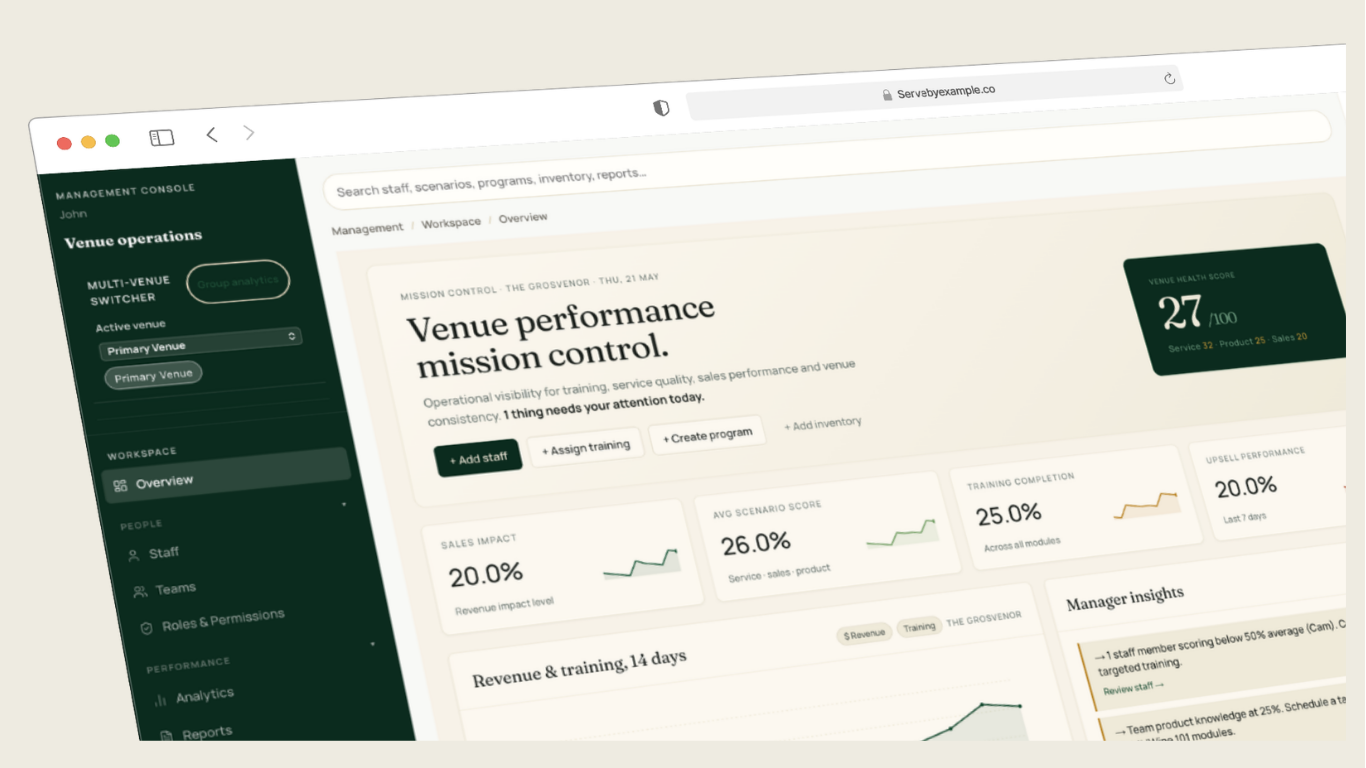
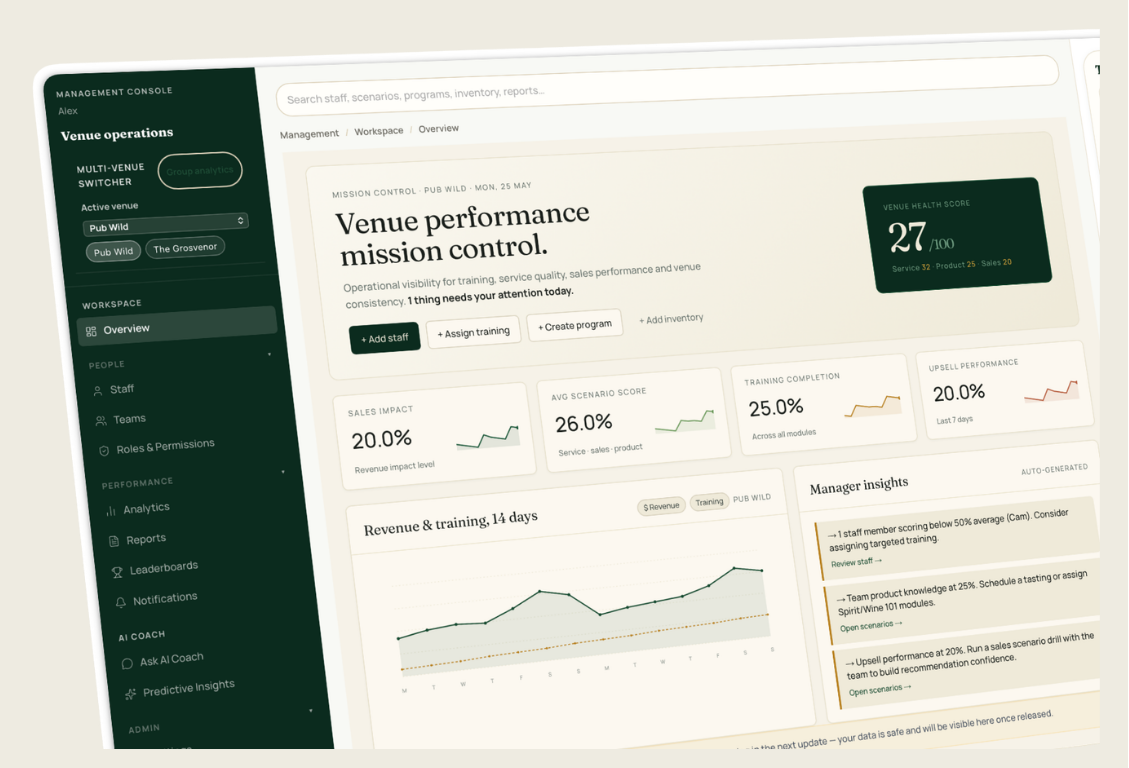
fix: constrain mobile screenshot to 300px and update 3 platform asset images

diff --git a/app/page.tsx b/app/page.tsx
@@ -226,7 +226,7 @@ export default function Home() {
                   alt="Mobile training view — hospitality staff learning on phone"
                   width={700}
                   height={1000}
-                  style={{ width: "100%", height: "auto", display: "block" }}
+                  style={{ width: "auto", maxWidth: "300px", height: "auto", display: "block", margin: "0 auto" }}
                 />
               </div>
 